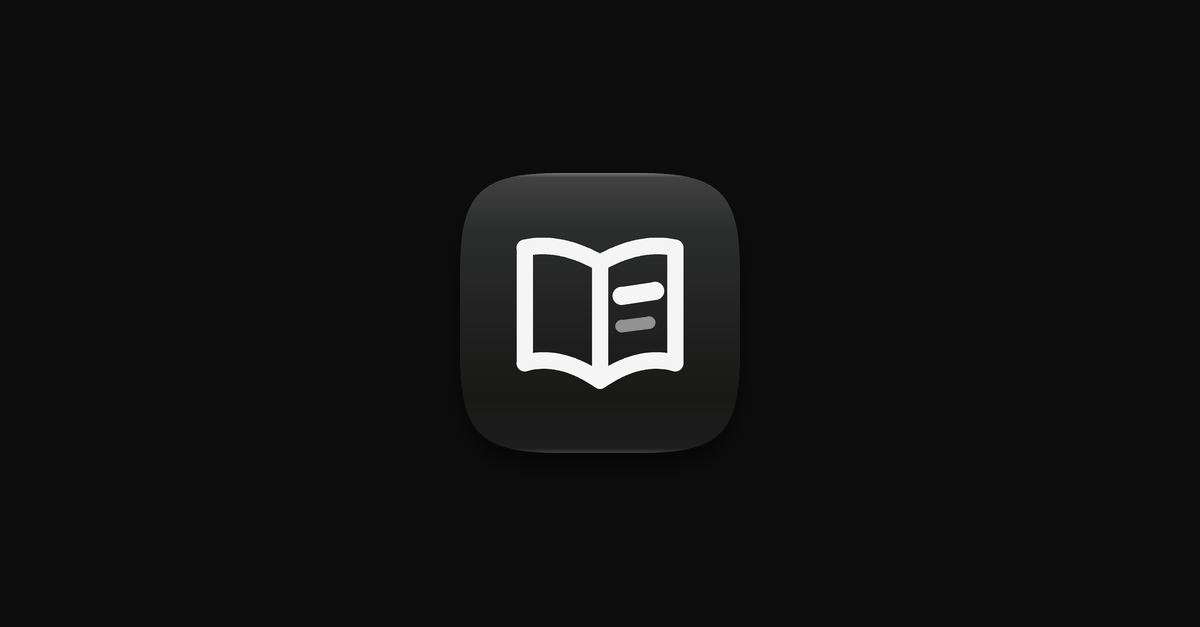
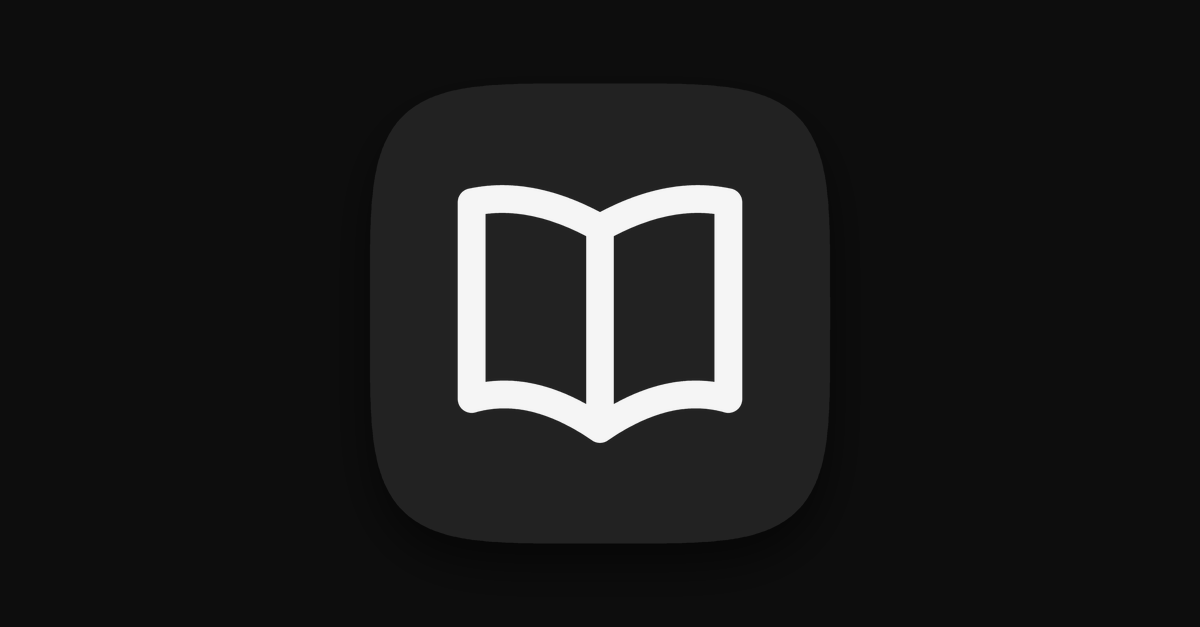
fix(brand,scanner): restore official Booker mark and configure local/HF scanner routing

Changed region(s): [[0.37, 0.2727, 0.6475, 0.7576]]

diff --git a/src/ui/brand.tsx b/src/ui/brand.tsx
@@ -1,3 +1,12 @@
+/**
+ * Book Highlighter's mark and its icon tile, as the welcome screen draws them.
+ *
+ * The mark is `apps/booker/src/components/ui/BrandMark.tsx`'s open book on the
+ * 48-unit grid (`scripts/gen-brand-art.py` `MARKS["booker"]`): two pages
+ * dipping into the spine, upright outer edges, nothing written on them.
+ * The tile is `sound-shaper/web/src/ui/brand.tsx`'s `BrandTile`, dark: the iOS
+ * superellipse (n = 4.5), its measured shine and a blurred contact shadow.
+ */
 const BOOK_PATHS = [
   'M24 14 Q16 9.5 9 11 V34 Q16 32 24 37.5 Z',
   'M24 14 Q32 9.5 39 11 V34 Q32 32 24 37.5 Z',
@@ -29,25 +38,6 @@ export const BrandMark = ({
         strokeLinejoin="round"
       />
     ))}
-    <line
-      x1={28.3}
-      y1={20.6}
-      x2={35}
-      y2={19.6}
-      stroke={color}
-      strokeWidth={3.6}
-      strokeLinecap="round"
-    />
-    <line
-      x1={28.3}
-      y1={26.6}
-      x2={33.8}
-      y2={25.9}
-      stroke={color}
-      strokeWidth={2.5}
-      strokeLinecap="round"
-      opacity={0.58}
-    />
   </svg>
 );
 
@@ -90,7 +80,7 @@ export const BrandTile = ({ size }: { size: number }) => {
   const pad = Math.round(size * SHADOW_PAD);
   const canvas = size + pad * 2;
   const path = squirclePath(size);
-  const glyph = size * 0.88;
+  const glyph = size * 0.94;
   const scale = glyph / 48;
   const offset = pad + (size - glyph) / 2;
 
@@ -141,25 +131,6 @@ export const BrandTile = ({ size }: { size: number }) => {
             strokeLinejoin="round"
           />
         ))}
-        <line
-          x1={28.3}
-          y1={20.6}
-          x2={35}
-          y2={19.6}
-          stroke={INK}
-          strokeWidth={3.6}
-          strokeLinecap="round"
-        />
-        <line
-          x1={28.3}
-          y1={26.6}
-          x2={33.8}
-          y2={25.9}
-          stroke={INK}
-          strokeWidth={2.5}
-          strokeLinecap="round"
-          opacity={0.58}
-        />
       </g>
     </svg>
   );

diff --git a/src/firebaseConfig.ts b/src/firebaseConfig.ts
@@ -47,6 +47,10 @@ export const mediaWorkerUrl = (
   'https://book-highlighter-media-worker.juanesvillamendoza.workers.dev'
 ).replace(/\/+$/, '');
 
+const defaultScannerUrl = env.DEV
+  ? 'http://localhost:8787'
+  : 'https://juanevillam-book-highlighter-scanner.hf.space';
+
 export const scannerBaseUrl = (
-  (env.VITE_SCANNER_URL ?? '').trim() || 'http://localhost:8787'
+  (env.VITE_SCANNER_URL ?? '').trim() || defaultScannerUrl
 ).replace(/\/+$/, '');

diff --git a/scanner/README.md b/scanner/README.md
@@ -1,3 +1,13 @@
+---
+title: Book Highlighter Scanner
+emoji: 📖
+colorFrom: gray
+colorTo: gray
+sdk: docker
+app_port: 7860
+pinned: false
+---
+
 # Book Highlighter — Scanner Microservice
 
 Zero-storage, in-RAM Python FastAPI microservice that turns a live phone or laptop camera walk through a physical book into structured chapter-grouped highlights using physical sticky-strip grammar.
